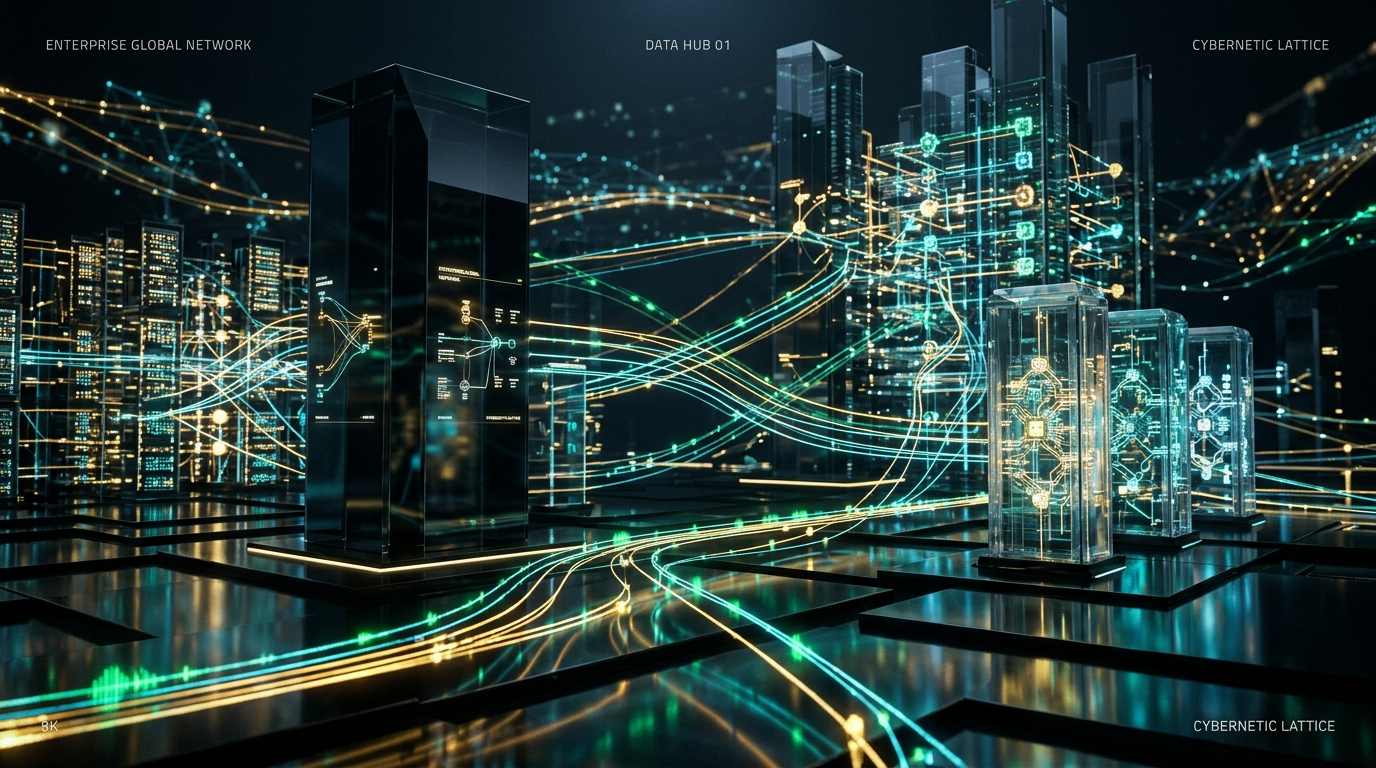
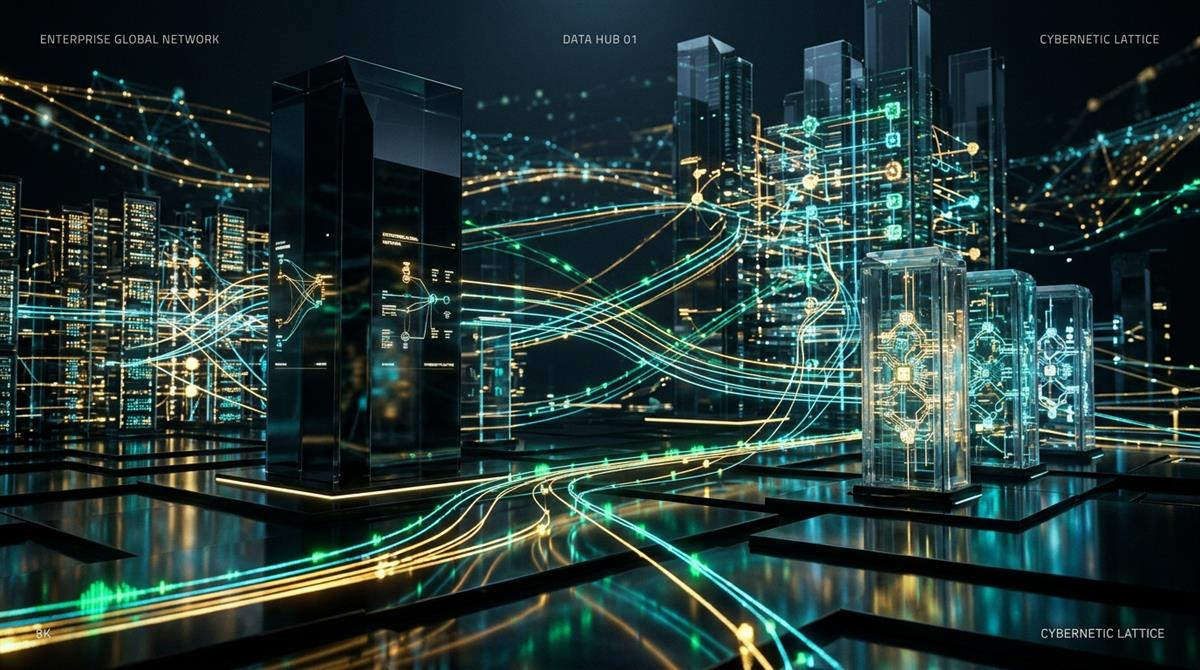
Add files via upload

diff --git a/styles.css b/styles.css
@@ -134,39 +134,40 @@ body {
   opacity: 0.55;
 }
 
-/* Background Atmosphere Orbs */
+/* Background Atmosphere Orbs (Ultra-Leve & Acelerado por Hardware) */
 .bg-glow-orb {
   position: fixed;
   border-radius: 50%;
-  filter: blur(120px);
   pointer-events: none;
   z-index: 0;
+  transform: translate3d(0, 0, 0);
+  -webkit-transform: translate3d(0, 0, 0);
   animation: orbBreathe var(--dur-ambient) ease-in-out infinite alternate;
 }
 
 .orb-1 {
   top: -150px;
   right: 5%;
-  width: 600px;
-  height: 600px;
-  background: radial-gradient(circle, var(--emerald-glow) 0%, transparent 70%);
+  width: 500px;
+  height: 500px;
+  background: radial-gradient(circle, rgba(16, 185, 129, 0.22) 0%, rgba(16, 185, 129, 0.08) 40%, transparent 70%);
 }
 
 .orb-2 {
   top: 35%;
-  left: -200px;
-  width: 700px;
-  height: 700px;
-  background: radial-gradient(circle, var(--cyan-glow) 0%, transparent 70%);
+  left: -150px;
+  width: 500px;
+  height: 500px;
+  background: radial-gradient(circle, rgba(6, 182, 212, 0.2) 0%, rgba(6, 182, 212, 0.06) 40%, transparent 70%);
   animation-delay: -5s;
 }
 
 .orb-3 {
   bottom: 5%;
-  right: -150px;
-  width: 650px;
-  height: 650px;
-  background: radial-gradient(circle, var(--violet-glow) 0%, transparent 70%);
+  right: -100px;
+  width: 500px;
+  height: 500px;
+  background: radial-gradient(circle, rgba(139, 92, 246, 0.18) 0%, rgba(139, 92, 246, 0.05) 40%, transparent 70%);
   animation-delay: -8s;
 }
 
@@ -186,25 +187,16 @@ body {
 }
 
 /* ==========================================================================
-   HEADER & FLOATING GLASS NAVBAR (Streamlined Luxury: Vértice + 2 Vagas + Pedro Elias)
+   HEADER (Sobe com a tela naturalmente - Não fica fixo atrapalhando o scroll)
    ========================================================================== */
 .site-header {
-  position: fixed;
+  position: absolute;
   top: 0;
   left: 0;
   width: 100%;
-  z-index: 100;
-  padding: 16px 0;
-  transition: padding var(--dur-standard) var(--ease-smooth), background var(--dur-standard) var(--ease-smooth), backdrop-filter var(--dur-standard) var(--ease-smooth), border-color var(--dur-standard) var(--ease-smooth);
-}
-
-.site-header.scrolled {
-  padding: 10px 0;
-  background: rgba(5, 7, 13, 0.9);
-  backdrop-filter: blur(20px);
-  -webkit-backdrop-filter: blur(20px);
-  border-bottom: 1px solid var(--border-subtle);
-  box-shadow: 0 10px 30px rgba(0, 0, 0, 0.5);
+  z-index: 50;
+  padding: 20px 0;
+  background: transparent;
 }
 
 .nav-wrapper {
@@ -452,8 +444,8 @@ body {
    HERO SECTION (Primary Motion & Theatrical Staging)
    ========================================================================== */
 .hero-section {
-  padding-top: 170px;
-  padding-bottom: 90px;
+  padding-top: 115px;
+  padding-bottom: 80px;
   position: relative;
   overflow: hidden;
 }
@@ -1461,7 +1453,7 @@ input[type="range"]::-webkit-slider-thumb:hover {
 }
 
 .faq-item.active .faq-answer {
-  max-height: 280px;
+  max-height: 800px;
   padding: 0 24px 24px 24px;
 }
 
@@ -1667,26 +1659,12 @@ input[type="range"]::-webkit-slider-thumb:hover {
 }
 
 /* ==========================================================================
-   SCROLL REVEAL (Instant Hero + Fluid Scroll Reveal)
+   SCROLL REVEAL (Zero Bloqueio: Tudo 100% Visível sem Falhas no iPhone)
    ========================================================================== */
 .reveal {
-  opacity: 0;
-  transform: translateY(20px);
-  transition: opacity 350ms var(--ease-signature), transform 350ms var(--ease-signature);
-  will-change: opacity, transform;
-}
-
-/* O Hero NUNCA espera: aparece imediatamente no primeiro milissegundo */
-.hero-section .reveal,
-.hero-content,
-.hero-stage-container {
   opacity: 1 !important;
   transform: none !important;
-}
-
-.reveal.active {
-  opacity: 1 !important;
-  transform: translateY(0) !important;
+  transition: none !important;
 }
 
 /* Stagger Delay Utility */
@@ -1818,6 +1796,24 @@ input[type="range"]::-webkit-slider-thumb:hover {
     transition-delay: 0s !important;
   }
 
+  /* OTIMIZAÇÃO CRÍTICA PARA IPHONE / SAFARI / WHATSAPP WEBVIEW (Zero GPU Lag) */
+  #ambient-canvas,
+  .bg-glow-orb {
+    display: none !important;
+  }
+
+  .spotlight-card,
+  .calc-wrapper,
+  .case-card,
+  .hero-card-stage,
+  .authority-card,
+  .governance-card,
+  .cta-banner {
+    backdrop-filter: none !important;
+    -webkit-backdrop-filter: none !important;
+    background: #0D1322 !important;
+  }
+
   /* Header Mobile: Proporção e Alinhamento Perfeito */
   .site-header {
     padding: 10px 0;
@@ -1874,8 +1870,8 @@ input[type="range"]::-webkit-slider-thumb:hover {
 
   /* Hero Section */
   .hero-section {
-    padding-top: 155px;
-    padding-bottom: 60px;
+    padding-top: 105px;
+    padding-bottom: 45px;
   }
 
   .hero-title {

diff --git a/motion.js b/motion.js
@@ -16,22 +16,10 @@ document.addEventListener('DOMContentLoaded', () => {
 });
 
 /* ==========================================================================
-   1. NAVBAR SCROLL EFFECT
+   1. NAVBAR SCROLL EFFECT (Desativado: cabeçalho flui naturalmente com a tela)
    ========================================================================== */
 function initNavbarScroll() {
-  const header = document.querySelector('.site-header');
-  if (!header) return;
-
-  const handleScroll = () => {
-    if (window.scrollY > 40) {
-      header.classList.add('scrolled');
-    } else {
-      header.classList.remove('scrolled');
-    }
-  };
-
-  window.addEventListener('scroll', handleScroll, { passive: true });
-  handleScroll();
+  // O cabeçalho agora sobe naturalmente com a rolagem da tela, sem travar na frente
 }
 
 /* ==========================================================================
@@ -154,36 +142,10 @@ function initAmbientCanvas() {
 }
 
 /* ==========================================================================
-   3. SCROLL REVEAL (Ultra-Rápido: Sem Delay no Mobile e Antecipado no Desktop)
+   3. SCROLL REVEAL (Instantâneo: 100% das informações visíveis sem falhas)
    ========================================================================== */
 function initScrollReveal() {
-  // No celular, ativa absolutamente tudo no primeiro milissegundo
-  if (window.innerWidth <= 768) {
-    document.querySelectorAll('.reveal').forEach(el => el.classList.add('active'));
-    return;
-  }
-
-  // No desktop, o Hero entra imediatamente sem esperar scroll
-  document.querySelectorAll('.hero-section .reveal, .hero-content, .hero-stage-container').forEach(el => {
-    el.classList.add('active');
-  });
-
-  const reveals = document.querySelectorAll('.reveal:not(.active)');
-  if (!reveals.length) return;
-
-  const observer = new IntersectionObserver((entries, obs) => {
-    entries.forEach(entry => {
-      if (entry.isIntersecting) {
-        entry.target.classList.add('active');
-        obs.unobserve(entry.target);
-      }
-    });
-  }, {
-    threshold: 0.02,
-    rootMargin: '100px 0px 100px 0px' // Antecipa 100px antes de entrar na tela
-  });
-
-  reveals.forEach(el => observer.observe(el));
+  document.querySelectorAll('.reveal').forEach(el => el.classList.add('active'));
 }
 
 /* ==========================================================================
